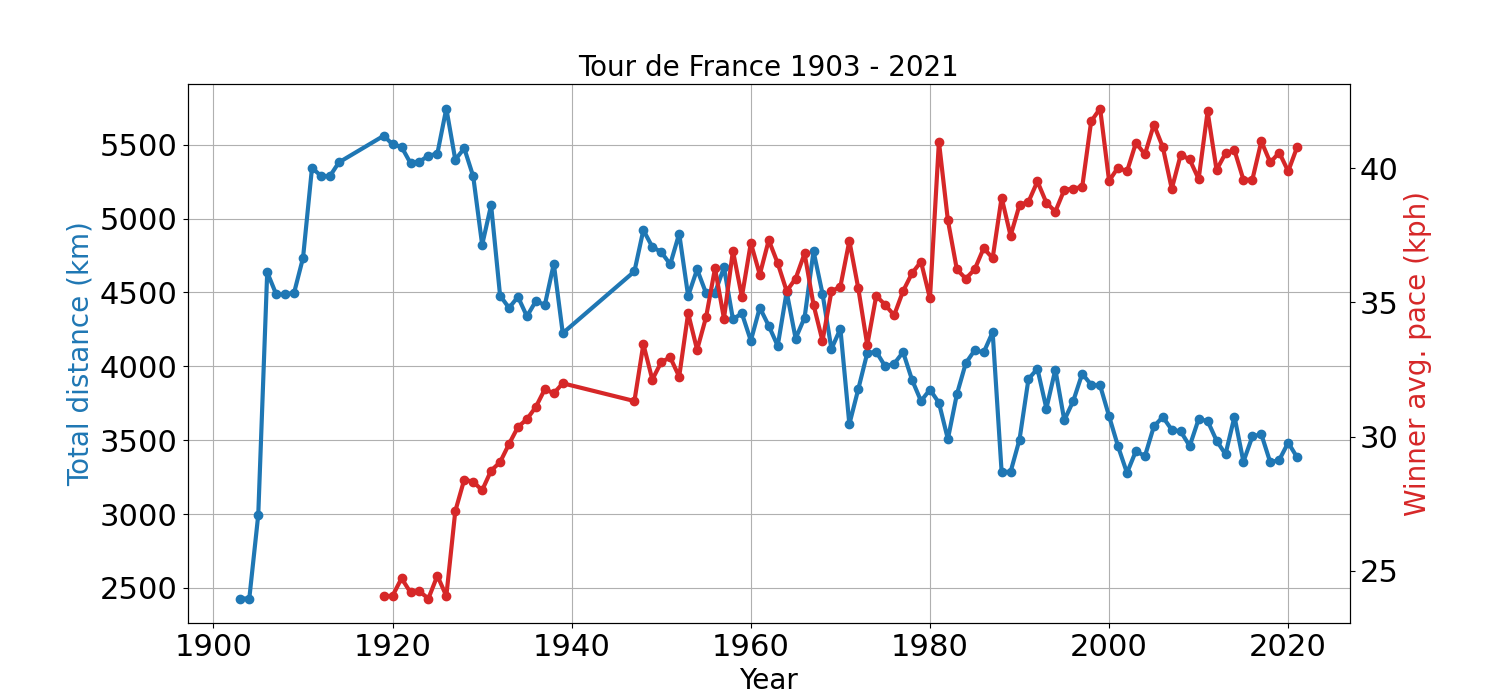
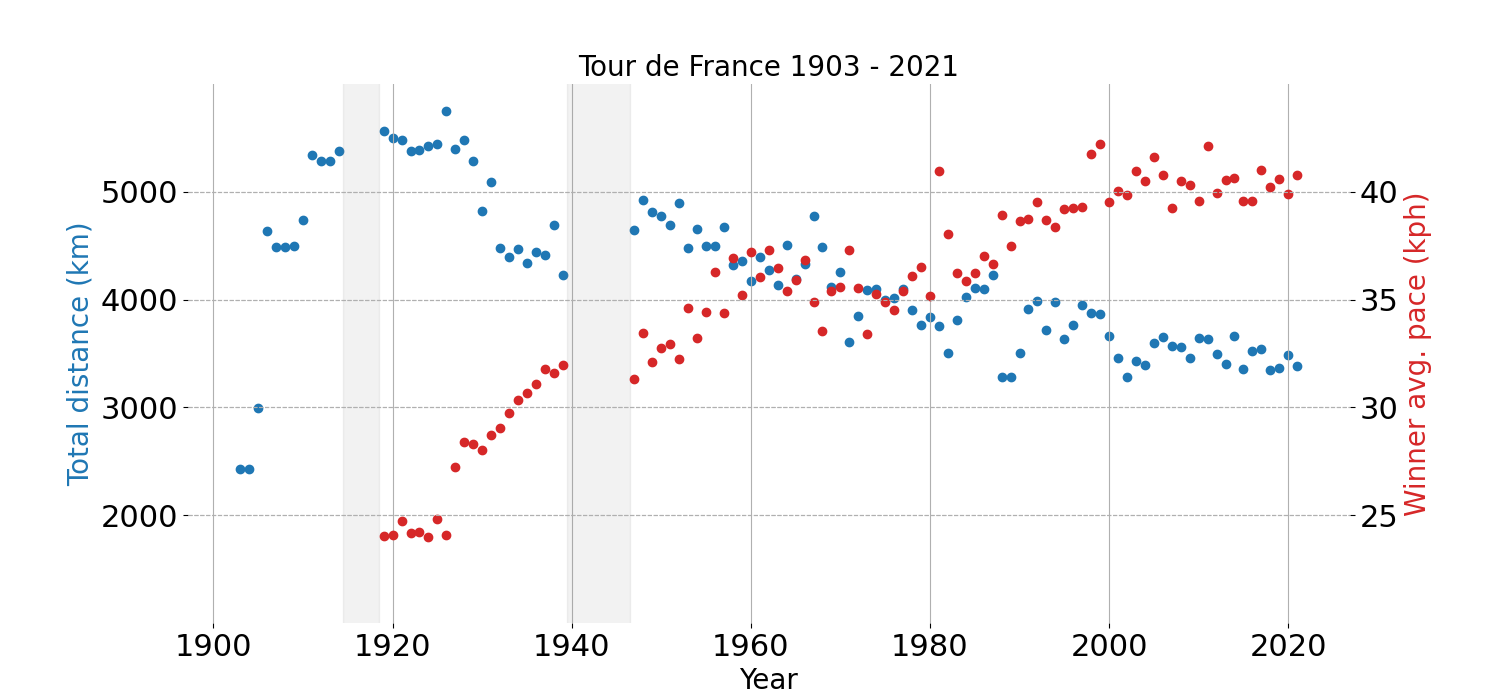
Update figure

diff --git a/src/analysis.py b/src/analysis.py
@@ -21,13 +21,32 @@ meanpace = distance / meantime * 3600
 # %%
 matplotlib.rcParams.update({"font.size": 22})
 fig, ax = plt.subplots(1, 1, figsize=(15, 7))
-ax.plot(year, distance, "-o", lw=3)
+ax.scatter(year, distance)
 ax.set_ylabel("Total distance (km)", fontsize=20, color="tab:blue")
 
 ax2 = ax.twinx()
-ax2.plot(year, winnerpace, "-o", color="tab:red", lw=3)
+ax2.scatter(year, winnerpace, color="tab:red")
 ax2.set_ylabel("Winner avg. pace (kph)", fontsize=20, color="tab:red")
 ax.set_xlabel("Year", fontsize=20)
 ax.grid("on")
 ax.set_title("Tour de France 1903 - 2021", fontsize=20)
+ax2.set_ylim(20,45)
+ax.set_ylim(1000,6000)
+ax2.set_yticks([25,30,35,40])
+ax.set_yticks([2000,3000,4000,5000])
+ax2.fill_betweenx([00,412],1939.5,1946.5,zorder = -1, alpha = 0.1,color = "grey")
+ax2.fill_betweenx([00,412],1914.5,1918.5,zorder = -1, alpha = 0.1,color = "grey")
+ax.spines['top'].set_visible(False)
+ax.spines['right'].set_visible(False)
+ax.spines['bottom'].set_visible(False)
+ax.spines['left'].set_visible(False)
+
+ax2.spines['top'].set_visible(False)
+ax2.spines['right'].set_visible(False)
+ax2.spines['bottom'].set_visible(False)
+ax2.spines['left'].set_visible(False)
+ax.grid(which='major', axis='y', linestyle='--')
+ax2.grid(which='major', axis='y', linestyle='--')
 plt.savefig("../data/distanceAndPace.png", dpi=100)
+
+
